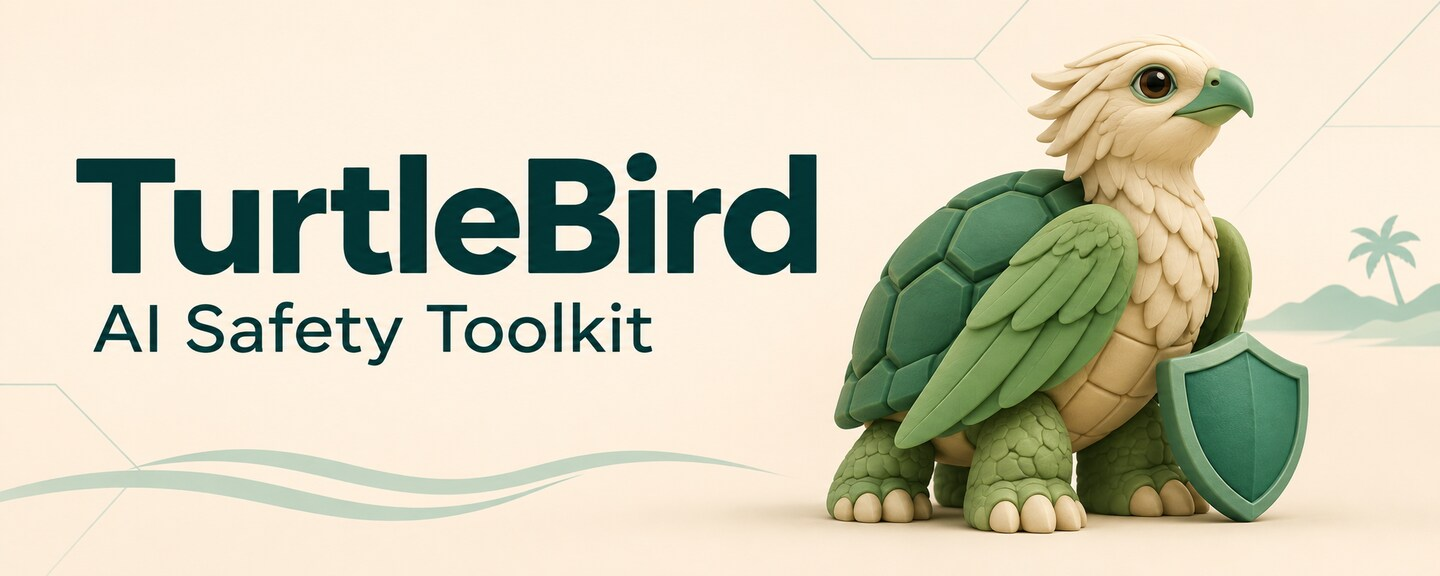
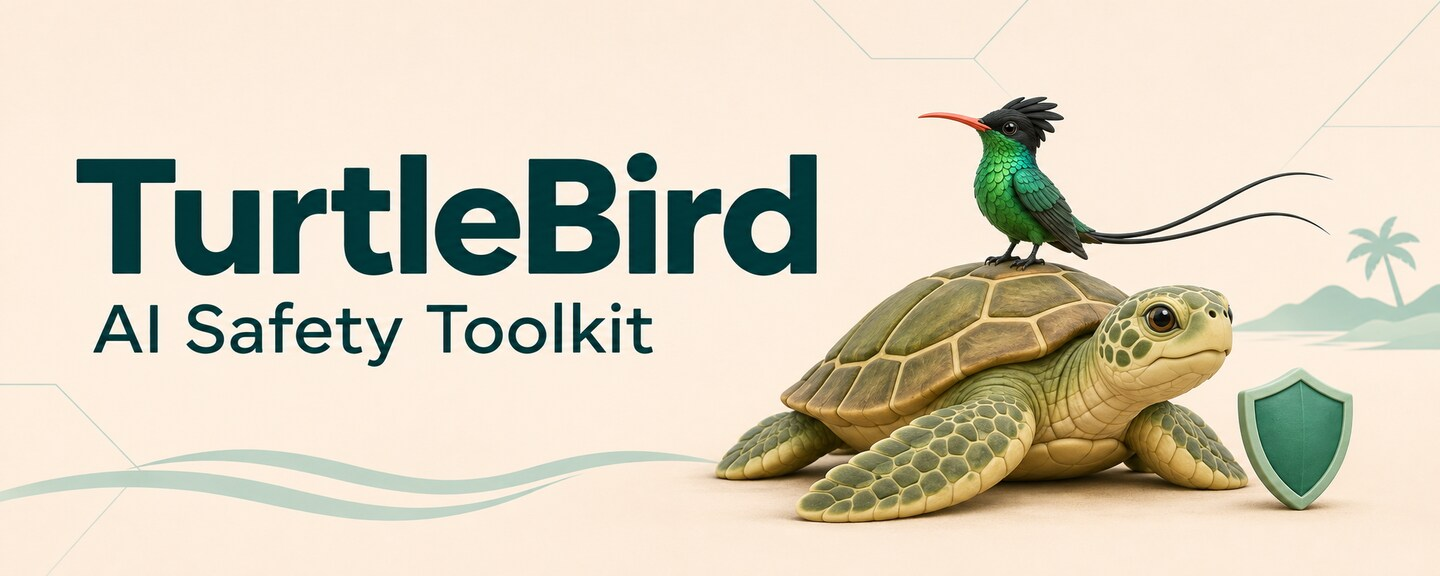
Show the Jamaican doctor bird perched on a sea turtle

diff --git a/government/turtlebird/README.md b/government/turtlebird/README.md
@@ -1,6 +1,6 @@
 # TurtleBird
 
-![TurtleBird AI Safety Toolkit banner with a green turtle-bird and shield](assets/turtlebird.jpg)
+![TurtleBird AI Safety Toolkit banner with a Jamaican doctor bird perched on a Caribbean sea turtle](assets/turtlebird.jpg)
 
 **Prepared by [Adrian Dunkley](https://adriandunkley.net/).**
 
